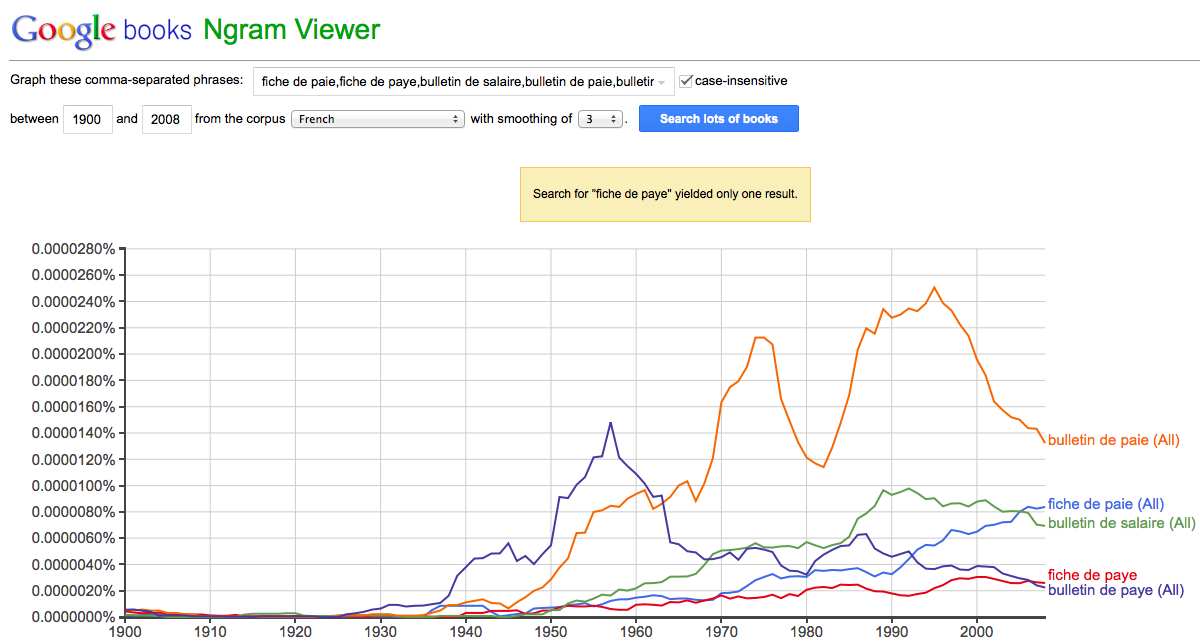
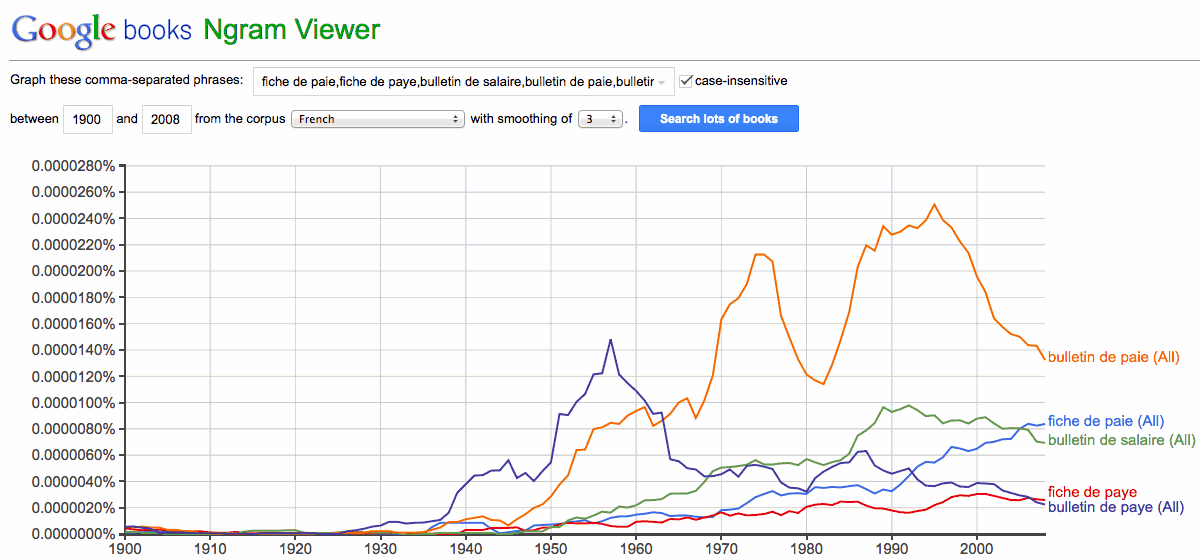
Finish value proposition vocabulary article

Changed region(s): [[0.0, 0.0, 1.0, 1.0], [0.8325, 0.6071, 0.9867, 0.6982], [0.0308, 0.2732, 0.1233, 0.3036]]

diff --git a/_posts/2017-06-10-comment-choisir-vocabulaire.md b/_posts/2017-06-10-comment-choisir-vocabulaire.md
@@ -1,32 +1,45 @@
 ---
-title: Comment choisir le vocabulaire d'une proposition de valeur
+title: Comment écrire une proposition de valeur
 startup: embauche
 authors: matti.schneider
 ---
 
-Les termes employés dans une proposition de valeur sont cruciaux pour valider l'adéquation entre un produit et son marché. Le vocabulaire employé ne doit pas biaiser l'expérience. Voilà comment vous assurer que les termes employés sont les plus communs.
+Une proposition de valeur est la description d'**un** service pour **un** public spécifique. Pour valider l'adéquation entre un produit et son marché, le vocabulaire employé ne doit pas biaiser l'expérience. Voilà comment vous assurer que les termes employés sont les plus pertinents.
 
 <!--more-->
 
-Une proposition de valeur est composée du public des usagers pressentis et de la phrase que vous allez leur présenter pour valider l'adéquation entre l'idée que vous vous faites de leurs besoins et la proposition de service que vous allez leur offrir. C'est un élément crucial pour itérer rapidement au lancement d'un produit, puisque modifier des mots coûte moins cher que de modifier des maquettes, et évidemment bien moins cher que de modifier du code.
 
-Au fur et à mesure que vous comprendrez votre public cible, vous modifierez cette proposition et la raffinerez. En partant à la base d'une idée très large, vous vous approprierez le vocabulaire des usagers visés, et trouverez la manière d'utiliser leurs mots pour présenter votre idée. Vous pourrez considérer que votre proposition de valeur est bonne lorsque 8 personnes sur 10 auxquelles vous la présentez vous demandent plus de détails et sont prêtes à vous laisser leur adresse email pour que vous les recontactiez lorsque le service sera ouvert au public. Cette phrase deviendra bien évidemment le slogan que vous afficherez en page d'accueil de votre service, et vous servira à introduire votre _elevator pitch_ à chaque nouvelle rencontre.
+## Utilité
 
-Cet objet apporte donc une grande valeur, à la fois parce qu'il pousse à développer son empathie pour ses usagers, qu'il permet de remettre en question la définition du public (peut-être que la même phrase peut marcher pour un public et pas un autre), qu'il borne l'exploration qualitative (une fois l'objectif de 80 % de taux d'activation atteint, on peut se focaliser sur la réalisation), qu'il vous permettra de présenter votre service sans y réfléchir, et qu'il normalisera le discours pour toute l'équipe.
+Une proposition de valeur est la phrase que vous allez présenter à un segment des usagers pressentis de votre service pour valider votre compréhension de leurs besoins. C'est un élément crucial pour itérer rapidement au lancement d'un produit. En effet, vous pouvez modifier cette phrase à chaque fois que vous apprenez de nouveaux éléments, et modifier des mots coûte moins cher que de modifier des maquettes (et donc bien moins cher que de modifier du code). Au fur et à mesure que vous développerez de l'empathie pour votre public cible, vous modifierez cette proposition et la raffinerez. En partant à la base d'une idée très large, vous vous approprierez le vocabulaire des usagers visés, et utiliserez leurs mots pour présenter votre idée.
 
-Si l'on comprend la puissance de cette pratique, on peut aussi en voir la fragilité. Si tout l'exercice d'investigation est résumé en un assemblage de mots et des personnes qui doivent les entendre, alors le moindre biais dans les mots peut le remettre en question.
+On peut généralement considérer qu'une proposition de valeur est bonne lorsque 8 personnes sur 10 auxquelles on la présente demandent plus de détails et sont prêtes à laisser leur adresse email pour être informées de l'ouverture du service. Atteindre ce stade signifie qu'on a suffisamment compris les enjeux et le public pour commencer à créer des maquettes.
 
-Le premier discriminant doit être la compréhension du public visé. Ainsi, les termes de jargon qu'il faut éviter dans une interface ou dans une présentation peuvent être bienvenus s'ils permettent de prouver la connivence ou d'être particulièrement concis.
+Cette phrase permet donc en premier lieu de mesurer votre compréhension d'un domaine. Mais son utilité ne s'arrête pas là. Elle sera aussi certainement le slogan que vous afficherez en page d'accueil de votre service. Elle débutera votre [_elevator pitch_](https://fr.wikipedia.org/wiki/Elevator_pitch). Elle pourra être une partie de votre _mission statement_.
 
-Néanmoins, si plusieurs termes sont utilisés indifféremment par les futurs usagers, alors comment choisir ? C'est le cas auquel j'ai été confronté lors de la phase d'investigation du Simulateur de coût d'embauche, ou les termes « fiche de paie », « bulletin de paie » et « bulletin de salaire » étaient utilisés indifféremment par tous les acteurs, qui plus est en y ajoutant les variantes orthographiques à l'écrit !
+Cet objet apporte donc une grande valeur, à la fois parce qu'il pousse à développer son empathie pour ses usagers, qu'il permet de remettre en question la définition du public (une même phrase peut marcher pour un public et pas un autre), qu'il borne l'exploration qualitative (une fois l'objectif de 80 % de taux d'activation atteint, on peut se focaliser sur la réalisation), qu'il permet de présenter votre service sans y réfléchir, et qu'il normalise le discours pour toute l'équipe.
 
-J'ai donc commencé par déterminer quelle était la norme. La loi, à travers l'article [L3243-2 du code du travail](https://www.google.fr/url?sa=t&rct=j&q=&esrc=s&source=web&cd=1&cad=rja&uact=8&ved=0ahUKEwjn6fHR76vUAhXDvBQKHc26AKoQFggnMAA&url=https%3A%2F%2Fwww.legifrance.gouv.fr%2FaffichCodeArticle.do%3FcidTexte%3DLEGITEXT000006072050%26idArticle%3DLEGIARTI000006902863%26dateTexte%3D%26categorieLien%3Dcid&usg=AFQjCNGhoL-D1s5zwg-8V8NhzTX5qt6zNQ&sig2=FnV5xzEI9iK9esbM01CM7g), dit :
+
+## Sensibilité
+
+Si l'on comprend la puissance de cette pratique, on peut aussi en voir la fragilité. Si tout l'exercice d'investigation est résumé en un assemblage de mots et des personnes qui doivent les entendre, alors le moindre biais dans les mots peut le remettre en question !
+
+Le premier discriminant doit être la compréhension par le public visé. Ainsi, les termes de jargon qu'il faut éviter dans une interface ou dans une présentation peuvent être bienvenus s'ils permettent de prouver la connivence ou d'être particulièrement concis. Rappelons-nous en effet qu'une proposition de valeur est le _binôme_ d'une phrase et d'un public, et que les mots employés le sont dans le contexte de ce public. Par exemple, si vous construisez un service comme [Plante & Moi](https://beta.gouv.fr/startup/plante-et-moi), parler de « végétalisation » peut être bienvenu si vous vous adressez aux professionnel·le·s de l'urbanisme, même si le terme n'est pas clair pour le grand public.
+
+Néanmoins, si plusieurs termes sont utilisés indifféremment par les futurs usagers, alors comment choisir ? C'est le cas auquel j'ai été confronté lors de la phase d'investigation du Simulateur de coût d'embauche, ou les termes « fiche de paie », « bulletin de paie » et « bulletin de salaire » étaient utilisés indifféremment par tous les acteurs. Et la situation était encore pire à l'écrit, en raison des variantes orthographiques entre « paie » et « paye » !
+
+
+## Détermination
+
+### Norme
+
+J'ai commencé par déterminer quelle était la norme. La loi, à travers l'article [L3243-2 du code du travail](https://www.legifrance.gouv.fr/affichCodeArticle.do?cidTexte=LEGITEXT000006072050&idArticle=LEGIARTI000006902863&dateTexte=&categorieLien=cid), dit :
 
 > Lors du paiement du salaire, l'employeur remet […] une pièce justificative dite **bulletin de paie**.
 
-Soit, nous avons donc la position officielle. Mais ce ne serait pas la première fois que les usages divergeraient de la norme. Le choix le plus pertinent consiste donc à évaluer les usages les plus fréquents, pour minimiser le nombre de personnes surprises par un terme qui leur semble inhabituel.
+Soit, nous avons donc la position officielle. Mais ce ne serait pas la première fois que les usages divergent de la norme… Le choix le plus pertinent consiste donc à évaluer les usages les plus fréquents, pour minimiser le nombre de personnes surprises par un terme qui leur semble inhabituel.
 
-J'ai donc combiné plusieurs sources de données pour objectiver la fréquence d'utilisation.
+J'ai donc combiné plusieurs sources de données pour évaluer la fréquence d'utilisation.
 
 
 ### Résultats Google
@@ -34,18 +47,51 @@ J'ai donc combiné plusieurs sources de données pour objectiver la fréquence d
 Le nombre de résultats Google permet d'évaluer la fréquence d'utilisation sur le web. Dans ce cas, deux précautions à prendre :
 
 1. Le terme à rechercher doit être entouré de guillemets (`"`) pour s'assurer que c'est bien l'expression exacte qui est cherchée.
-2. Si vous visez une zone géographique spécifique, utilisez les outils de recherche pour cibler. Dans l'exemple du Simulateur de coût d'embauche, sélectionner « Pays : France » permet d'éviter les usages francophones non visés.
+2. Si vous visez une zone géographique spécifique, utilisez les outils de recherche pour cibler. Dans l'exemple du Simulateur de coût d'embauche, sélectionner « Pays : France » permet d'éviter les usagers francophones non ciblés.
+
+![Recherche bulletin de PAYE. Essayez avec cette orthographe : bulletin de PAIE.](/img/posts/2017-06-10-comment-choisir-vocabulaire/google-france.png)
 
 Attention également à ce que Google ne corrige pas tout seul votre recherche ! Même si cela donne déjà une information, cela rend la comparaison impossible.
 
+Si l'on compte le nombre de résultats remontés pour chaque formulation, on peut comparer leur fréquence d'utilisation sur le web.
 
-###
+![Fiche de paie : 324000 résultats ; fiche de paye : 97700 résultats ; bulletin de salaire : 317000 résultats ; bulletin de paie : 301000 résultats ; bulletin de paye : 79800 résultats.](/img/posts/2017-06-10-comment-choisir-vocabulaire/google-results.png)
+
+Il semblerait donc que la forme avec un Y soit peu utilisée… du moins sur le web en général. Le fait que le grand public utilise souvent la graphie « fiche de paie » ne signifie pas que les professionnel·le·s le font.
+
+### Ngram
+
+Un outil permet de comparer l'évolution de l'usage de différents termes dans le temps, dans un vaste corpus de livres numérisés : [Ngram viewer](https://books.google.com/ngrams).
+
+![Valeurs pour 2008. Fiche de paie : 83695 ; fiche de paye : 25921 ; bulletin de salaire : 69342 ; bulletin de paie : 132310 ; bulletin de paye : 22443.](/img/posts/2017-06-10-comment-choisir-vocabulaire/ngrams.png)
+
+La graphie avec un Y n’est donc pas simplement peu utilisée, elle est en réalité datée. Le terme de « bulletin de paie », après avoir remplacé la graphie « bulletin de paye » dans les années 60, semble diminuer au profit de « fiche de paie ». L'effondrement observé à partir du milieu des années 90 est cohérent avec ce qu'on observe aujourd'hui sur le web, dont le corpus est bien plus récent.
+
+On comprend mieux la dynamique de l'usage des différents termes… pour les rédacteurs de contenu. Une proposition de valeur qui cible les experts-comptables établis, par exemple, pourra parler de « bulletin de paie ». Mais les destinataires de l'objet, eux, qui n'en sont pas des experts et n'écrivent probablement pas d'article sur le sujet, comment le dénomment-ils ?
+
+### Trends
+
+Là encore, un outil peut nous aider. [Google Trends](https://trends.google.com) permet de comparer l'évolution dans le temps des recherches effectuées sur Google dans un pays. Ce moteur de recherche ayant [90 % des parts de marché de la recherche](http://gs.statcounter.com/search-engine-market-share/all/france) en France, on peut considérer ces résultats comme représentatifs.
+
+![Valeurs pour septembre 2014. Fiche de paie : 94 ; fiche de paye : 22 ; bulletin de salaire : 49 ; bulletin de paie : 29 ; bulletin de paye : 6.](/img/posts/2017-06-10-comment-choisir-vocabulaire/trends.png)
+
+On retrouve la même tendance qu'auparavant, avec le remplacement de « bulletin de salaire » par « fiche de paie » en 2010, ce qui est cohérent avec ce qu'on a observé sur Ngram. Si l'on s'adresse au grand public, il faudra donc parler de « fiche de paie ».
+
+### Légifrance
+
+L'énorme écart observée entre les publications papier, qui respectent la formulation donnée par la loi, et l'usage par le grand public, qui semble être passé de « bulletin de salaire » par « fiche de paie » sans trop s'être approprié le terme officiel « bulletin de paie », a de quoi intriguer. L'un de nos publics pourra être les experts juridiques. Comment s’adresser à eux ? Les parlementaires sont aussi des citoyen·ne·s. Alors, le législateur a-t-il choisi la loi ou l'usage ?
+
+Pour répondre, on peut réutiliser la technique de mesure des résultats Google, en ajoutant le [mot-clé `site:legifrance.gouv.fr`](https://support.google.com/websearch/answer/2466433?hl=fr) aux requêtes sur les termes.
+
+![Valeurs pour septembre 2014. Fiche de paie : 1260 ; fiche de paye : 152 ; bulletin de salaire : 7380 ; bulletin de paie : 6970 ; bulletin de paye : 817.](/img/posts/2017-06-10-comment-choisir-vocabulaire/google-legifrance.png)
+
+Il est amusant de constater que, même si la loi indique le terme officiel, la totalité du corpus législatif ne l'utilise pas. Néanmoins, l'usage reste très différent de celui fait par le grand public. Si l'on s'adresse à des juristes, on privilégiera donc « bulletin de paie ».
 
 
-| Syntaxe             | Nombre de résultats Google | Nombre d’occurrences ngram 2008 | Nombre de résultats Google legifrance | Google Trends France septembre 2014 |
-|---------------------|----------------------------|---------------------------------|---------------------------------------|-------------------------------------|
-| fiche de paie       | 324 000                    | 83 695                          | 1 260                                 | 94                                  |
-| fiche de paye       | 97 700                    | 25 921                          | 152                                   | 22                                  |
-| bulletin de salaire | 317 000                    | 69 342                          | 7 380                                 | 49                                  |
-| bulletin de paie    | 301 000                    | 132 310                         | 6 970                                 | 29                                  |
-| bulletin de paye    | 79 800                     | 22 443                          | 817                                   | 6                                   |
+## Synthèse
+
+Chacun de ces outils nous a permis d'évaluer la prévalence relative d'un terme dans un média. On pourra donc formuler la proposition de valeur en déterminant le média de référence pour chaque public visé.
+
+![Fiche de paie est prévalent dans les recherches ; bulletin de salaire est prévalent dans la loi ; bulletin de paie est prévalent dans les livres.](/img/posts/2017-06-10-comment-choisir-vocabulaire/recap.png)
+
+> Pour les valeurs évoluant dans le temps, j'ai choisi les données les plus récentes disponibles, soit 2008 pour Ngram et 2014 pour Trends.
